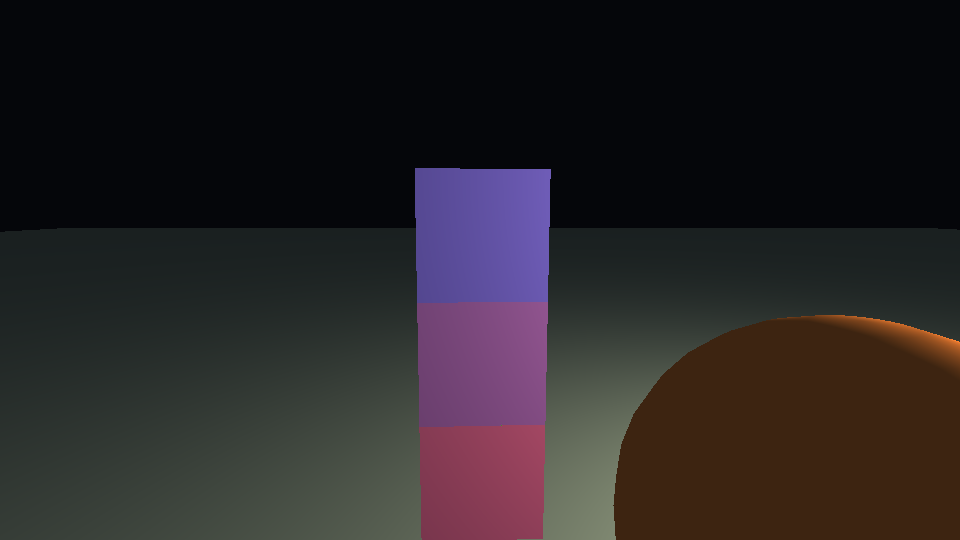
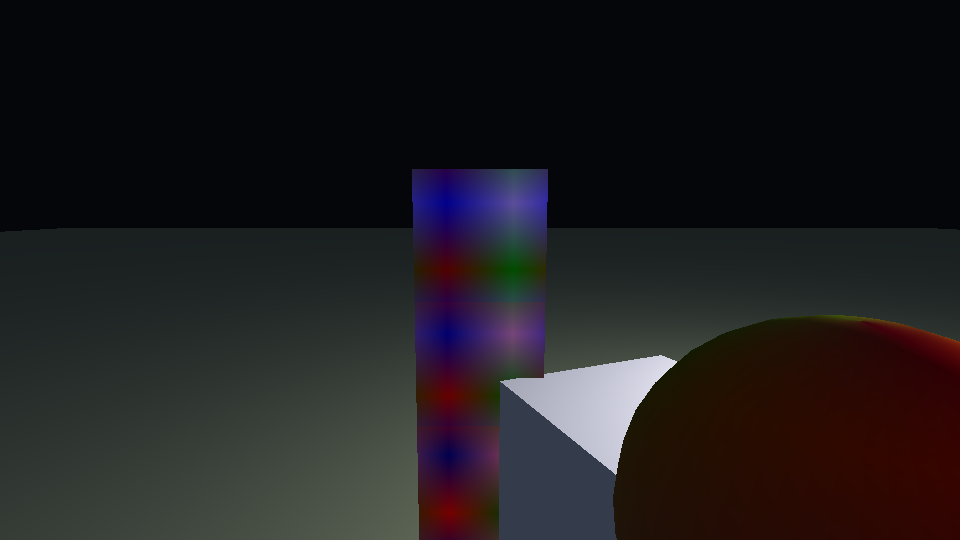
engine: regression tests for advanced physics; refresh docs/preview

Changed region(s): [[0.4062, 0.2963, 1.0, 1.0]]

diff --git a/README.md b/README.md
@@ -487,18 +487,23 @@ PNG/JPEG image-loading intrinsics (`e7_image_*`), an `AssetsPlugin`, and a
 `physics.e7` library with `RigidBody`, box/sphere/capsule/plane colliders,
 AABB/sphere raycasts, gravity integration, pickup/hold, and a camera raycast
 resource. `physics_broadphase.e7` maintains a spatial grid with aggregated
-region/ray candidate queries; `physics_narrowphase.e7` provides true
-capsule/plane, capsule/AABB, sphere/plane and box/plane overlap, penetration,
-and ray tests. Angular velocity/orientation and rotation locking are integrated
-in the fixed step; pickup, hold, and camera follow share that step. The demo
-starts with a static plane, a rotation-locked capsule player, a dynamic ball,
-and three stacked cubes.
+region/ray candidate queries; `physics_narrowphase.e7` provides oriented
+capsule/OBB/SAT manifolds, quaternion orientation, inverse-inertia angular
+impulses, and true capsule/plane, capsule/AABB, sphere/plane and box/plane
+tests. The fixed step integrates quaternions and applies angular contact
+impulses; pickup selects the nearest body with a deterministic tie-break.
+Pickup, hold, and camera follow share that step. The demo starts with a static
+plane, a rotation-locked capsule player, a dynamic ball, and three stacked
+cubes.
 
-Rendering selects per-object geometry through `e7_engine_scene_draw_shape`
-(box/sphere/capsule/plane) with RGB tint; sphere/capsule/plane are real
-procedural meshes rather than box proxies. ECS now supports component add/
-remove/despawn, so gameplay markers such as `Held` are added and removed
-dynamically instead of remaining permanent append-only rows.
+Rendering selects per-object geometry through
+`e7_engine_scene_draw_shape_tex` (box/sphere/capsule/plane) with RGB tint and
+GPU texture; sphere/capsule/plane are real procedural meshes rather than box
+proxies. OBJ meshes upload through `e7_engine_scene_mesh_upload` and draw with
+`e7_engine_scene_draw_custom`; per-frame object count is dynamic rather than
+capped at 64. ECS supports component add/remove/despawn, so gameplay markers
+such as `Held` are added and removed dynamically instead of remaining permanent
+append-only rows.
 
 Engine policy now lives in e7: shader asset selection/loading
 (`e7_engine_read_shader`), `gather_input`, time updates, camera look/movement,
@@ -552,7 +557,7 @@ a minimal JIT usage example.
 
 ## Verification
 
-`zig build test` runs 335 tests: scheduler 8, compiler 204, runtime 100,
+`zig build test` runs 339 tests: scheduler 8, compiler 204, runtime 104,
 transpiler 20.
 
 - scheduler: LAPACK solve/eigen checks, L-BFGS quadratic and Rosenbrock

diff --git a/engine/README.md b/engine/README.md
@@ -67,8 +67,10 @@ engine/
   close/Escape events; `gather_input` reads raw keys and mouse deltas through
   `e7_engine_key_down` / `e7_engine_mouse_dx` / `e7_engine_mouse_dy`; and
   `move_camera` only updates look orientation; player movement/jump is handled by
-  `physics.e7` from the player capsule, and PostUpdate follows the player with
-  the first-person Camera eye. `render_scene` reads the Camera row, then submits
+  `physics.e7` from the player capsule; the fixed step integrates quaternion
+  orientation/inverse inertia and uses OBB SAT/oriented-capsule manifolds, then
+  follows the player with the first-person Camera eye. Pickup picks the nearest
+  body (deterministic body-id tie-break). `render_scene` reads the Camera row, then submits
   a frame with the split intrinsics: `set_camera`, `set_light`, `begin_frame`,
   one `draw_shape_tex` per `Renderable` + `Transform` + `BodyBounds` +
   `Material` row (object count is dynamic; there is no fixed per-frame limit),
@@ -77,7 +79,7 @@ engine/
   mesh: 0 box, 1 sphere, 2 capsule, 3 plane.  `Material { texture, tint }`
   provides the per-object GPU texture and RGB tint (texture * tint * vertex
   colour); the ball and stacked cubes receive the sample PNG through their
-  Material.  The player capsule is deliberately not renderable in the
+  Material. Object count is dynamic (no fixed 64-object cap).  The player capsule is deliberately not renderable in the
   first-person demo.  `CubeMesh` carries a per-cube spin phase.
 - `AssetsPlugin` loads the sample PNG/OBJ into CPU resources at plugin init,
   then a `FrameInit` system uploads them once the window/scene exists:
